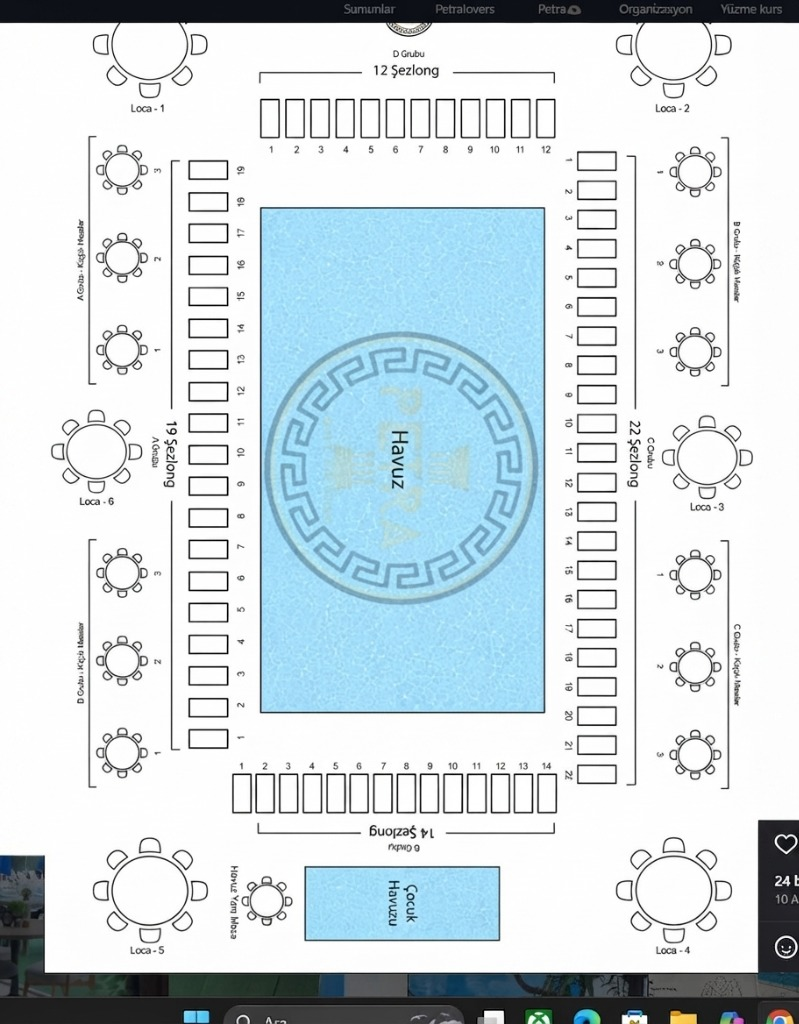
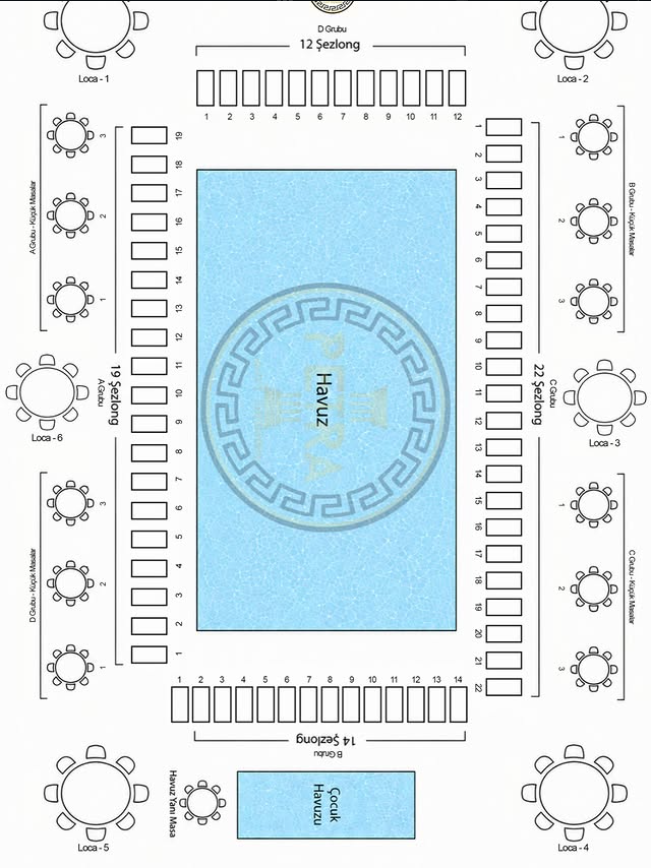
feat(pool): integrate official Petra pool layout blueprint from Instagram and map exact 651x868 SVG hotspots without distortion

diff --git a/lib/content/tables-data.ts b/lib/content/tables-data.ts
@@ -45,10 +45,9 @@ export const TABLE_ZONES: TableZone[] = [
 /**
  * Kullanıcının yüklediği gerçek Petra Havuz Planına (media_1787219097607.jpg)
  * %100 sadık kalan masa ve loca koordinat haritası.
- * ViewBox: 0 0 1000 1300
  */
 export const RESTAURANT_TABLES: RestaurantTable[] = [
-  // ─── VİP LOCALAR (Yuvarlak Masalar) ───
+  // ─── VİP LOCALAR (6-8 Kişilik) ───
   {
     id: "loca-1",
     tableNumber: "Loca 1",
@@ -59,9 +58,9 @@ export const RESTAURANT_TABLES: RestaurantTable[] = [
     minGuests: 2,
     isVip: true,
     shape: "circle",
-    cx: 190,
-    cy: 65,
-    r: 46,
+    cx: 104,
+    cy: 38,
+    r: 35,
     description: "Sol üst köşe, geniş ve ferah VIP Loca (6–8 Kişilik)",
   },
   {
@@ -74,9 +73,9 @@ export const RESTAURANT_TABLES: RestaurantTable[] = [
     minGuests: 2,
     isVip: true,
     shape: "circle",
-    cx: 830,
-    cy: 65,
-    r: 46,
+    cx: 566,
+    cy: 38,
+    r: 35,
     description: "Sağ üst köşe, geniş ve ferah VIP Loca (6–8 Kişilik)",
   },
   {
@@ -89,9 +88,9 @@ export const RESTAURANT_TABLES: RestaurantTable[] = [
     minGuests: 2,
     isVip: true,
     shape: "circle",
-    cx: 130,
-    cy: 440,
-    r: 46,
+    cx: 48,
+    cy: 454,
+    r: 35,
     description: "Sol orta, havuz cepheli geniş VIP Loca (6–8 Kişilik)",
   },
   {
@@ -104,9 +103,9 @@ export const RESTAURANT_TABLES: RestaurantTable[] = [
     minGuests: 2,
     isVip: true,
     shape: "circle",
-    cx: 870,
-    cy: 440,
-    r: 46,
+    cx: 602,
+    cy: 454,
+    r: 35,
     description: "Sağ orta, havuz cepheli geniş VIP Loca (6–8 Kişilik)",
   },
   {
@@ -119,10 +118,10 @@ export const RESTAURANT_TABLES: RestaurantTable[] = [
     minGuests: 2,
     isVip: true,
     shape: "circle",
-    cx: 190,
-    cy: 860,
-    r: 46,
-    description: "Sol alt köşe VIP Loca, çocuk havuzuna yakın (6–8 Kişilik)",
+    cx: 104,
+    cy: 825,
+    r: 35,
+    description: "Sol alt köşe, çocuk havuzu yakını VIP Loca (6–8 Kişilik)",
   },
   {
     id: "loca-4",

diff --git a/components/site/InteractiveFloorPlan.tsx b/components/site/InteractiveFloorPlan.tsx
@@ -150,7 +150,7 @@ export default function InteractiveFloorPlan({
 
           {/* İnteraktif SVG Katmanı */}
           <svg
-            viewBox="0 0 1000 1300"
+            viewBox="0 0 651 868"
             style={{
               position: "absolute",
               top: 0,
